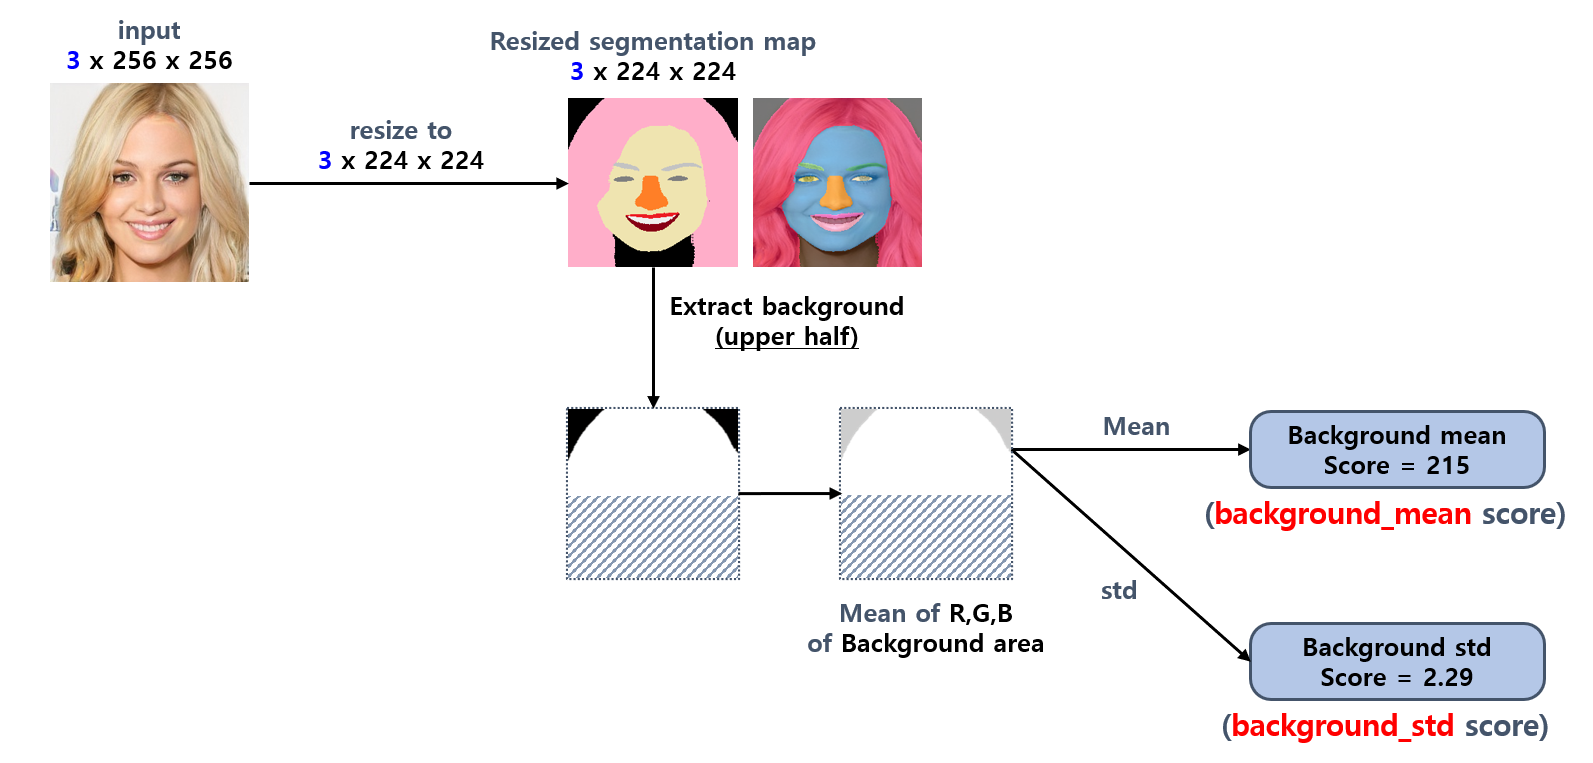
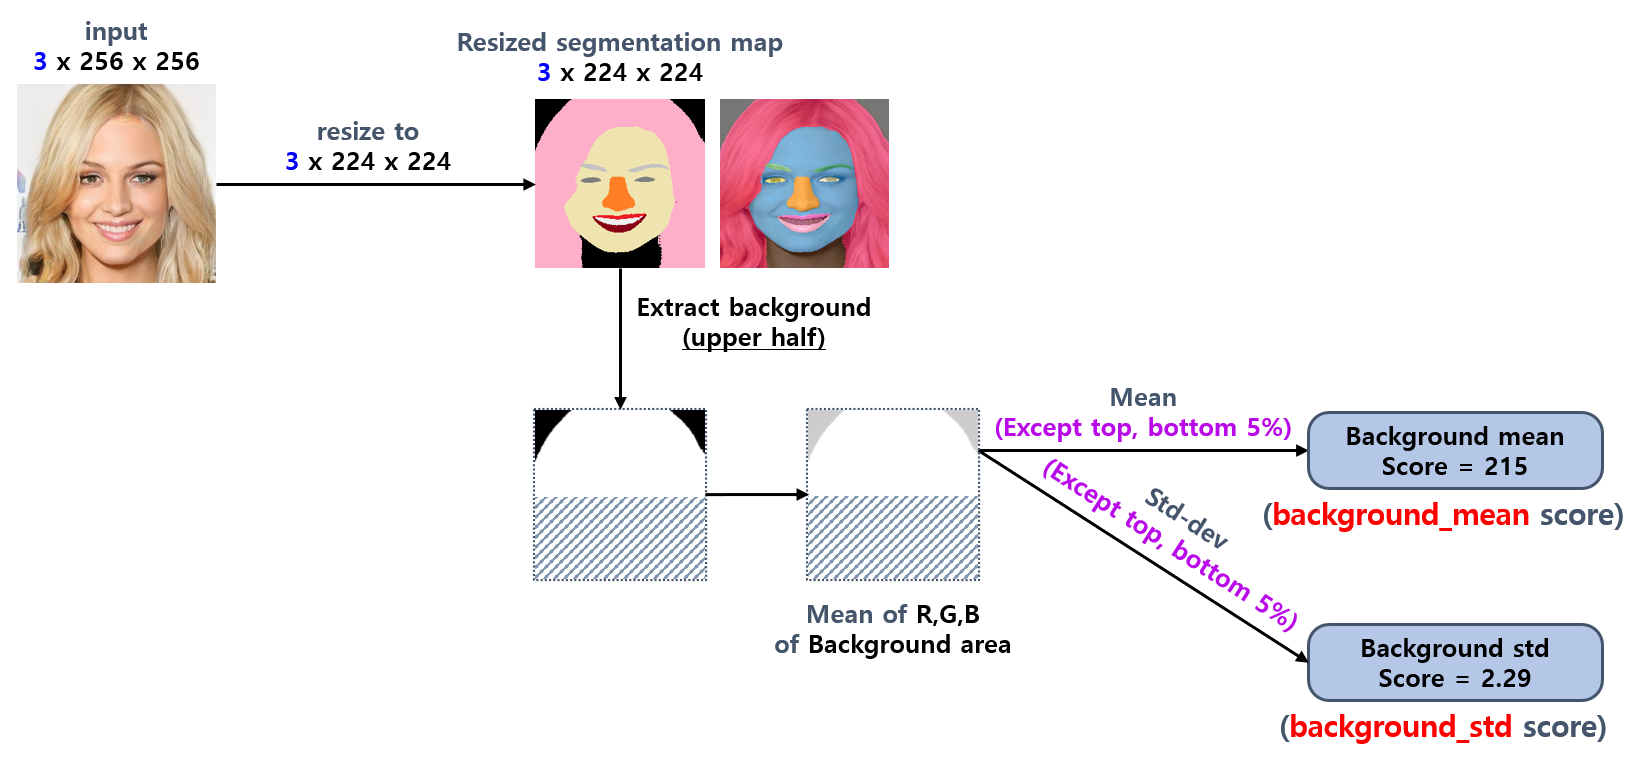
DOC: update background mean/std property info

Changed region(s): [[0.3076, 0.5125, 1.0, 0.9646], [0.0, 0.0301, 0.5844, 0.4823]]

diff --git a/2025_04_08_OhLoRA/stylegan_and_segmentation/README.md b/2025_04_08_OhLoRA/stylegan_and_segmentation/README.md
@@ -82,7 +82,7 @@
 **4. 배경색 평균 (background_mean), 배경색 표준편차 (background_std)**
 
 * 이미지 위쪽 절반의 픽셀 중 배경에 해당하는 픽셀 값의 R,G,B 평균값에 대해,
-* 그 평균 및 표준편차를 각각 의미
+* 그 값들 중 **상위 5% 및 하위 5%를 제외한 90% (잘못된 Segmentation 에 Robust 하도록)** 의 평균 및 표준편차를 각각 의미
 
 ![image](../../images/250408_8.PNG)
 
